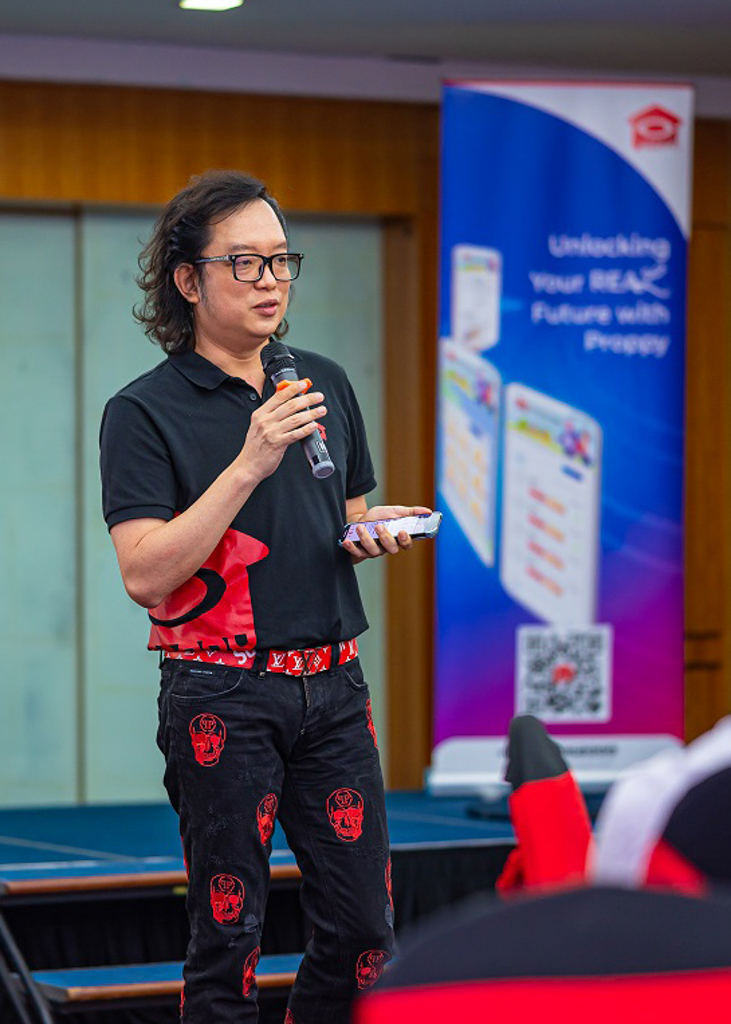
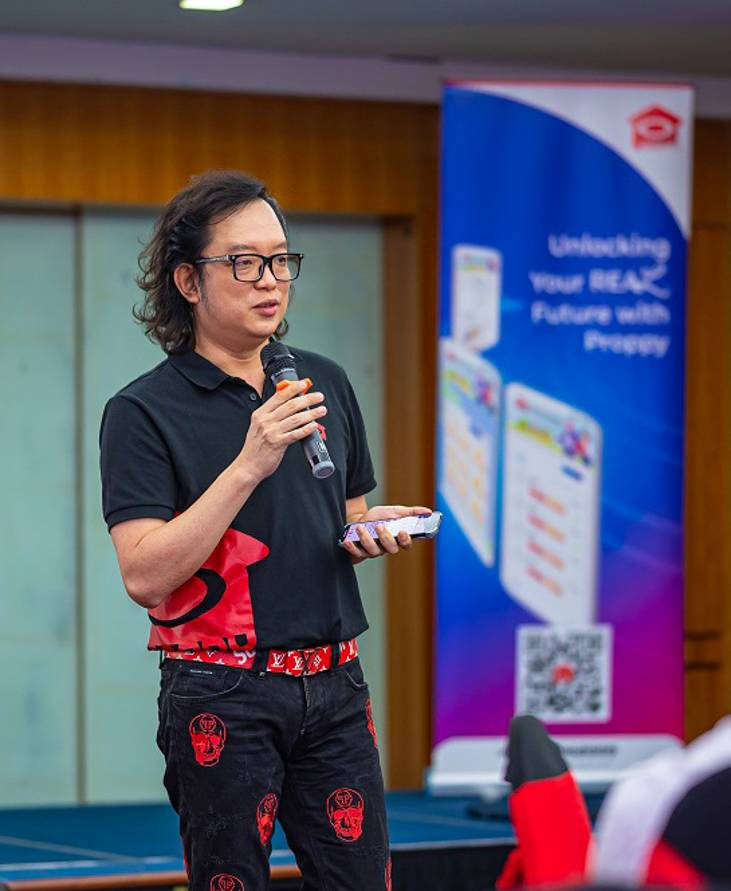
Cont. Update Gallery Pics

diff --git a/src/pages/media.html b/src/pages/media.html
@@ -232,7 +232,7 @@
         }
 
         .image-card img {
-            /* width: 100%; */
+            width: 100%;
             height: 250px;
             object-fit: cover;
             display: block;
